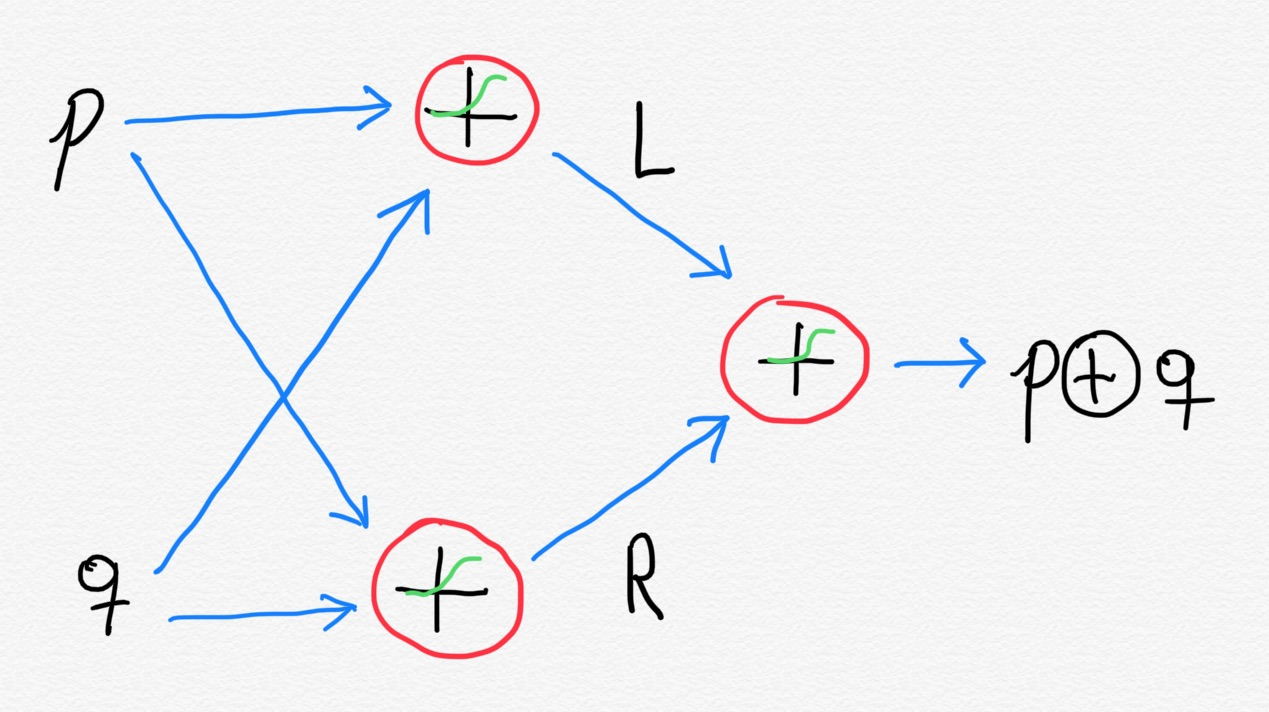
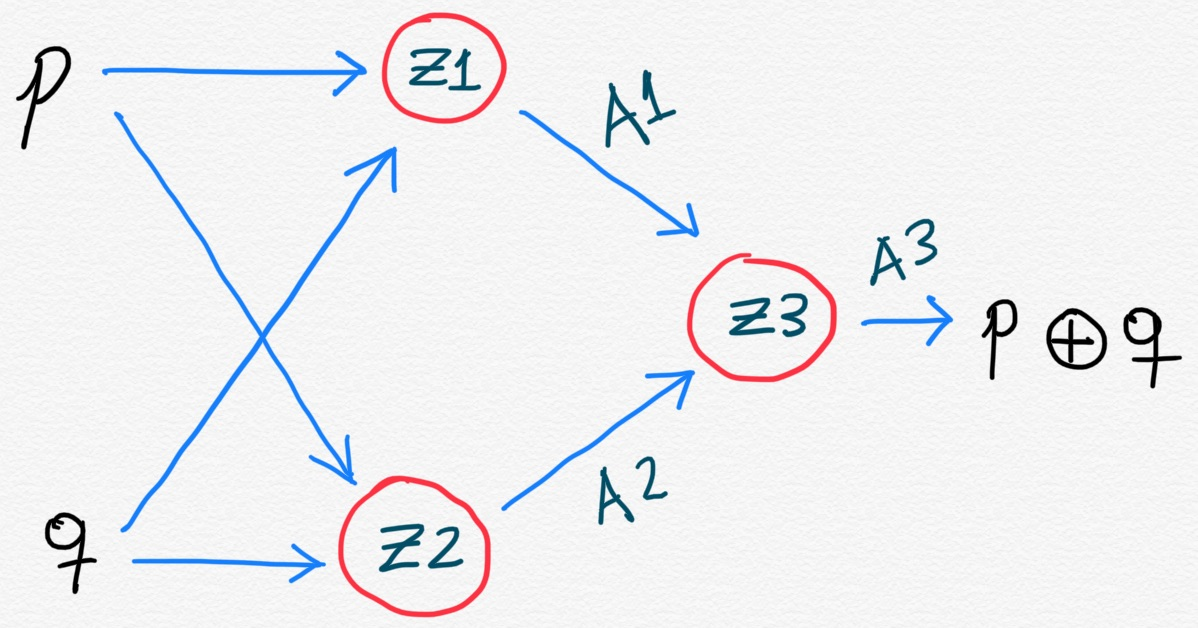
minor changes.

Changed region(s): [[0.0, 0.0, 0.9883, 0.9984], [0.7104, 0.3328, 0.803, 0.4538]]

diff --git a/README.md b/README.md
@@ -14,7 +14,7 @@ Repositorio del taller - Introducción a las redes neuronales en Keras - desarro
         5. Descenso del gradiente.
     2. El operador XOR
         1. Clasificación no-lineal.
-        2. Descomposición lineal.
+        2. XOR y su descomposición lineal.
         3. Regresores lineales en capas.
     3. Red Neuronal y Backpropagation (descenso del gradiente generalizado)
         1. Notación.
